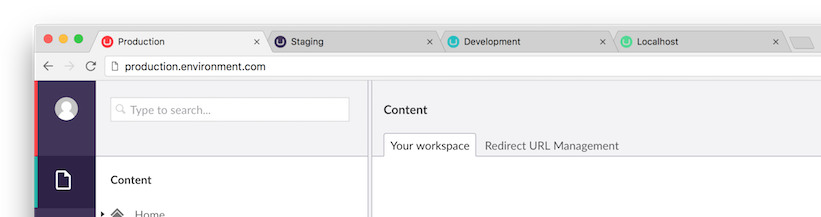
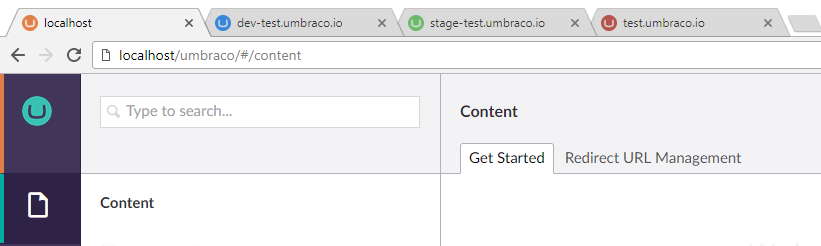
Tweaked colours
- Swapped localhost and staging colours - I wanted staging to be a green colour, as generally my clients use staging for content entry - making it more acceptable.
- Referred to Umbraco core's colours (in the "variables.less" file) and updated accordingly.

https://github.com/umbraco/Umbraco-CMS/blob/master-v7/src/Umbraco.Web.UI.Client/src/less/variables.less#L23-L32

Changed region(s): [[0.0, 0.0276, 1.0, 1.0], [0.5481, 0.4147, 0.6395, 0.4977]]

diff --git a/src/App_Plugins/CmsEnvironmentIndicator/js/cms-environment-indicator.js b/src/App_Plugins/CmsEnvironmentIndicator/js/cms-environment-indicator.js
@@ -1,9 +1,9 @@
 app.run([function () {
 	var config = [
-		{ pattern: "^localhost.*$|^.*\.local$", color: "55d895" },
-		{ pattern: "^dev-.*\.umbraco\.io$", color: "00BEC1" },
-		{ pattern: "^stage-.*\.umbraco\.io$", color: "F46036" },
-		{ pattern: "^.*$", color: "FF3E41" }
+		{ pattern: "^localhost.*$|^.*\.local$", color: "DF7F48" },
+		{ pattern: "^dev-.*\.umbraco\.io$", color: "0064CD" },
+		{ pattern: "^stage-.*\.umbraco\.io$", color: "46A546" },
+		{ pattern: "^.*$", color: "9D261D" }
 	];
 
 	var id = 'favicon';
